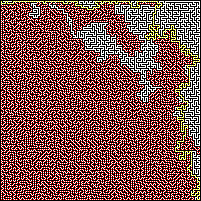
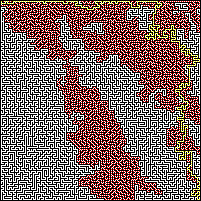
AStar-Projekt: >CAStar: -> turn_num zur Point-Struktur hinzugefügt ->_addPoint --> Implementierung des turn_num-Attributes

diff --git a/AStar/CAStar.cpp b/AStar/CAStar.cpp
@@ -70,6 +70,7 @@ void CAStar::setPoints(int bx, int by, int ex, int ey) {
 	_endP.dist = 0;
 	_beginP.x = bx;
 	_beginP.y = by;
+	_beginP.turn_num = 0;
 	_beginP.dist = _getDist(_endP, _beginP);
 }
 
@@ -136,7 +137,9 @@ void CAStar::_addPoint(std::vector<Point> *l, int x, int y, int ox, int oy) {
 	_tmpP.y = y;
 	_tmpP.origin_x = ox;
 	_tmpP.origin_y = oy;
+	_tmpP.turn_num = _curP.turn_num + 1;
 	_tmpP.dist = _getDist(_tmpP, _endP);
+	_tmpP.dist += (_tmpP.dist / _beginP.dist) * (double)_curP.turn_num;
 	l->push_back(_tmpP);
 }
 

diff --git a/AStar/CAStar.hpp b/AStar/CAStar.hpp
@@ -20,6 +20,7 @@ public:
 		int y;
 		int origin_x;
 		int origin_y;
+		int turn_num;
 		double dist;
 	};
 
